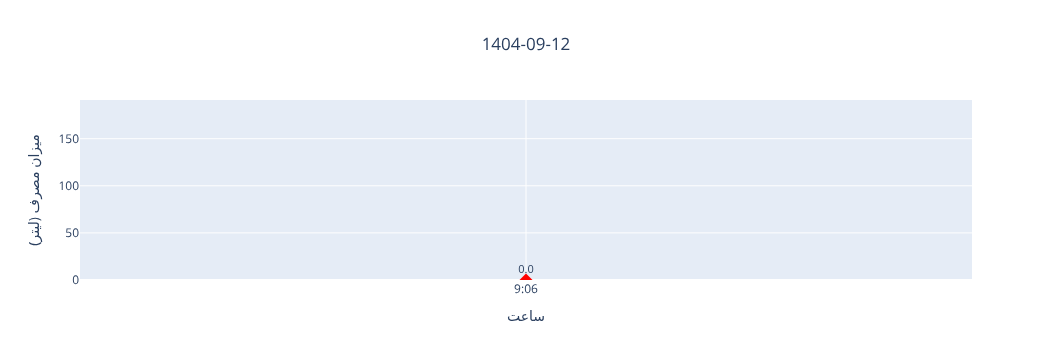
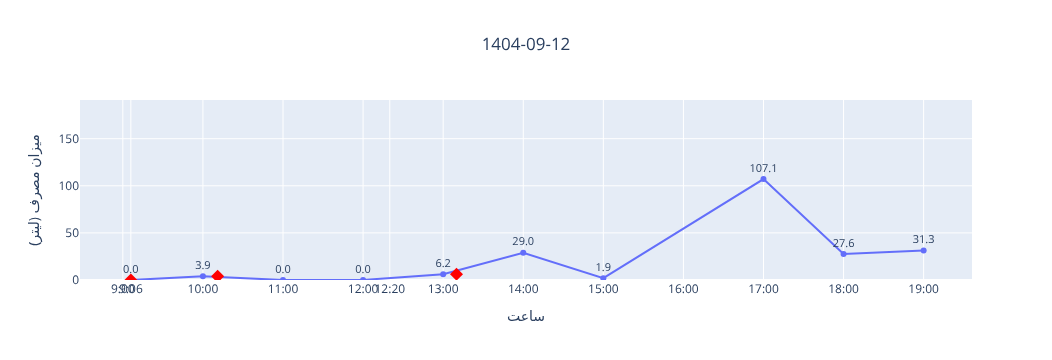
new data for 1404-09-12

diff --git a/docs/WaterConsumption.html b/docs/WaterConsumption.html
@@ -151,7 +151,7 @@ pre > code.sourceCode > span > a:first-child::before { text-decoration: underlin
 
 
 
-<div id="dde38749-5795-42d9-9819-01a0b2a8a913" class="cell" data-execution_count="1">
+<div id="dde38749-5795-42d9-9819-01a0b2a8a913" class="cell" data-execution_count="4">
 <details class="code-fold">
 <summary>Code</summary>
 <div class="code-copy-outer-scaffold"><div class="sourceCode cell-code" id="cb1"><pre class="sourceCode python code-with-copy"><code class="sourceCode python"><span id="cb1-1"><a href="#cb1-1" aria-hidden="true" tabindex="-1"></a><span class="im">import</span> pandas <span class="im">as</span> pd</span>
@@ -201,7 +201,7 @@ pre > code.sourceCode > span > a:first-child::before { text-decoration: underlin
 <span id="cb1-45"><a href="#cb1-45" aria-hidden="true" tabindex="-1"></a></span></code></pre></div><button title="Copy to Clipboard" class="code-copy-button"><i class="bi"></i></button></div>
 </details>
 </div>
-<div id="baebabfd-1082-4b66-a191-0da12872555a" class="cell" data-execution_count="2">
+<div id="baebabfd-1082-4b66-a191-0da12872555a" class="cell" data-execution_count="5">
 <details class="code-fold">
 <summary>Code</summary>
 <div class="code-copy-outer-scaffold"><div class="sourceCode cell-code" id="cb2"><pre class="sourceCode python code-with-copy"><code class="sourceCode python"><span id="cb2-1"><a href="#cb2-1" aria-hidden="true" tabindex="-1"></a>a <span class="op">=</span> (comp</span>
@@ -251,7 +251,7 @@ pre > code.sourceCode > span > a:first-child::before { text-decoration: underlin
 </div>
 </div>
 </div>
-<div id="8ac0f839-2a59-4f7d-81ad-9b10c980221d" class="cell" data-execution_count="3">
+<div id="8ac0f839-2a59-4f7d-81ad-9b10c980221d" class="cell" data-execution_count="6">
 <details class="code-fold">
 <summary>Code</summary>
 <div class="code-copy-outer-scaffold"><div class="sourceCode cell-code" id="cb3"><pre class="sourceCode python code-with-copy"><code class="sourceCode python"><span id="cb3-1"><a href="#cb3-1" aria-hidden="true" tabindex="-1"></a><span class="kw">def</span> consumption(df, date):</span>
